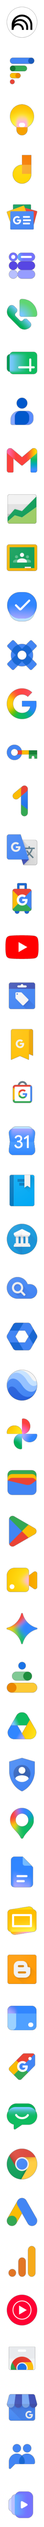
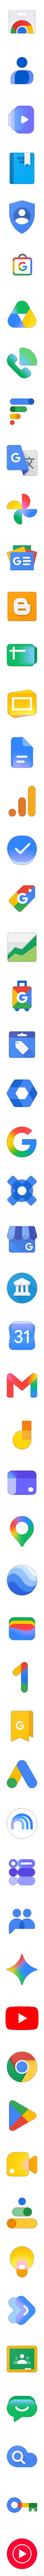
更新 Notebook 图标和名称

diff --git a/app/src/apps.js b/app/src/apps.js
@@ -74,246 +74,246 @@ export const EXTRA_APPS = [
         id: 'drive',
         text: 'Drive',
         href: 'https://drive.google.com',
-        position: 35,
+        position: 6,
     },
     {
         id: 'calendar',
         text: 'Calendar',
         href: 'https://calendar.google.com/calendar',
-        position: 23,
+        position: 27,
     },
     {
         id: 'play',
         text: 'Play',
         href: 'https://play.google.com',
-        position: 31,
+        position: 43,
     },
     {
         id: 'translate',
         text: 'Translate',
         href: 'https://translate.google.com',
-        position: 17,
+        position: 9,
     },
     {
         id: 'photos',
         text: 'Photos',
         href: 'https://photos.google.com',
-        position: 29,
+        position: 10,
     },
     {
         id: 'chrome',
         text: 'Chrome',
         href: 'https://www.google.com/chrome',
-        position: 44,
+        position: 42,
     },
     {
         id: 'shopping',
         text: 'Shopping',
         href: 'https://www.google.com/shopping',
-        position: 42,
+        position: 18,
     },
     {
         id: 'finance',
         text: 'Finance',
         href: 'https://www.google.com/finance',
-        position: 10,
+        position: 19,
     },
     {
         id: 'docs',
         text: 'Docs',
         href: 'https://docs.google.com/document',
-        position: 38,
+        position: 15,
     },
     {
         id: 'sheets',
         text: 'Sheets',
         href: 'https://docs.google.com/spreadsheets',
-        position: 7,
+        position: 13,
     },
     {
         id: 'slides',
         text: 'Slides',
         href: 'https://docs.google.com/presentation',
-        position: 39,
+        position: 14,
     },
     {
         id: 'books',
         text: 'Books',
         href: 'https://books.google.com',
-        position: 24,
+        position: 3,
     },
     {
         id: 'blogger',
         text: 'Blogger',
         href: 'https://www.blogger.com',
-        position: 40,
+        position: 12,
     },
     {
         id: 'keep',
         text: 'Keep',
         href: 'https://keep.google.com',
-        position: 2,
+        position: 46,
     },
     {
         id: 'earth',
         text: 'Earth',
         href: 'https://earth.google.com/web/',
-        position: 28,
+        position: 32,
     },
     {
         id: 'saved',
         text: 'Saved',
         href: 'https://www.google.com/save',
-        position: 21,
+        position: 35,
     },
     {
         id: 'artsAndCulture',
         text: 'Arts & Culture',
         href: 'https://artsandculture.google.com',
-        position: 25,
+        position: 26,
     },
     {
         id: 'googleAds',
         text: 'Ads',
         href: 'https://ads.google.com/ups/routing',
-        position: 45,
+        position: 36,
     },
     {
         id: 'merchantCenter',
         text: 'Merchant Center',
         href: 'https://merchants.google.com',
-        position: 20,
+        position: 21,
     },
     {
         id: 'travel',
         text: 'Travel',
         href: 'https://www.google.com/travel',
-        position: 18,
+        position: 20,
     },
     {
         id: 'forms',
         text: 'Forms',
         href: 'https://docs.google.com/forms',
-        position: 5,
+        position: 38,
     },
     {
         id: 'store',
         text: 'Store',
         href: 'https://store.google.com',
-        position: 22,
+        position: 5,
     },
     {
         id: 'chromeWebStore',
         text: 'Chrome Web Store',
         href: 'https://chrome.google.com/webstore',
-        position: 48,
+        position: 0,
     },
     {
         id: 'googleFiWireless',
         text: 'Fi Wireless',
         href: 'https://fi.google.com',
-        position: 1,
+        position: 8,
     },
     {
         id: 'analytics',
         text: 'Analytics',
         href: 'https://analytics.google.com/analytics/web',
-        position: 46,
+        position: 16,
     },
     {
         id: 'youtubeMusic',
         text: 'YouTube Music',
         href: 'https://music.youtube.com',
-        position: 47,
+        position: 52,
     },
     {
         id: 'notebookLM',
-        text: 'NotebookLM',
+        text: 'Notebook',
         href: 'https://notebooklm.google.com',
-        position: 0,
+        position: 37,
     },
     {
         id: 'voice',
         text: 'Voice',
         href: 'https://voice.google.com',
-        position: 6,
+        position: 7,
     },
     {
         id: 'classroom',
         text: 'Classroom',
         href: 'https://classroom.google.com',
-        position: 11,
+        position: 48,
     },
     {
         id: 'tasks',
         text: 'Tasks',
         href: 'https://tasks.google.com',
-        position: 12,
+        position: 17,
     },
     {
         id: 'vault',
         text: 'Vault',
         href: 'https://vault.google.com',
-        position: 13,
+        position: 24,
     },
     {
         id: 'passwordManager',
         text: 'Password Manager',
         href: 'https://passwords.google.com',
-        position: 15,
+        position: 51,
     },
     {
         id: 'googleOne',
         text: 'One',
         href: 'https://one.google.com',
-        position: 16,
+        position: 34,
     },
     {
         id: 'cloudSearch',
         text: 'Cloud Search',
         href: 'https://cloudsearch.google.com/',
-        position: 26,
+        position: 50,
     },
     {
         id: 'googleAdmin',
         text: 'Admin',
         href: 'https://admin.google.com/ac/home',
-        position: 27,
+        position: 22,
     },
     {
         id: 'wallet',
         text: 'Wallet',
         href: 'https://wallet.google.com/wallet/home',
-        position: 30,
+        position: 33,
     },
     {
         id: 'gemini',
         text: 'Gemini',
         href: 'https://gemini.google.com',
-        position: 33,
+        position: 40,
     },
     {
         id: 'myAdCenter',
         text: 'My Ad Center',
         href: 'https://myadcenter.google.com',
-        position: 34,
+        position: 45,
     },
     {
         id: 'sites',
         text: 'Sites',
         href: 'https://sites.google.com',
-        position: 41,
+        position: 30,
     },
     {
         id: 'businessProfile',
         text: 'Business Profile',
         href: 'https://business.google.com',
-        position: 49,
+        position: 25,
     },
     {
         id: 'vids',
         text: 'Vids',
         href: 'https://docs.google.com/videos',
-        position: 51,
+        position: 2,
     },
 ];

diff --git a/CHANGELOG.md b/CHANGELOG.md
@@ -2,6 +2,10 @@
 
 > 变更类型：⚠ 非兼容变更，🎉 功能新增，🔧 代码优化，🐞 问题修复，⬆ 依赖升级，📝 文档更新
 
+## 3.5.0（2026-09-22）
+
++ 🎉 更新 Notebook 图标和名称
+
 ## 3.4.0（2026-06-17）
 
 + 🎉 Apps 图标同步更新
